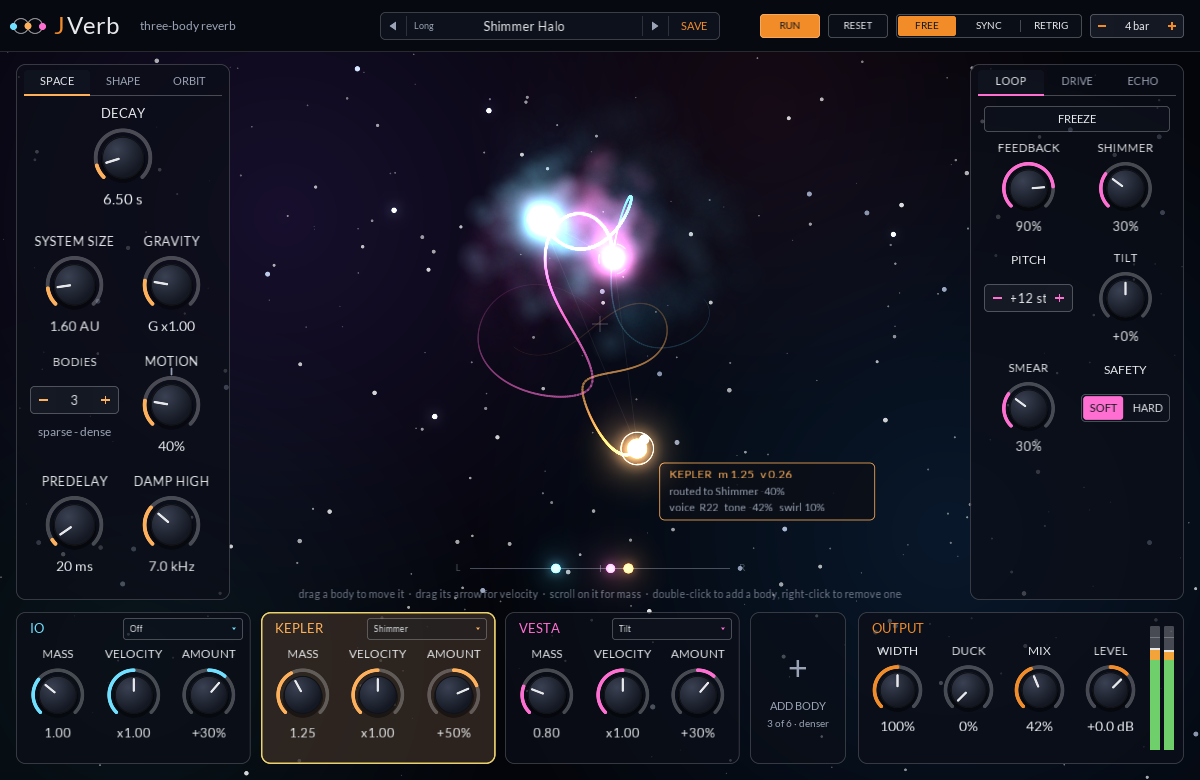
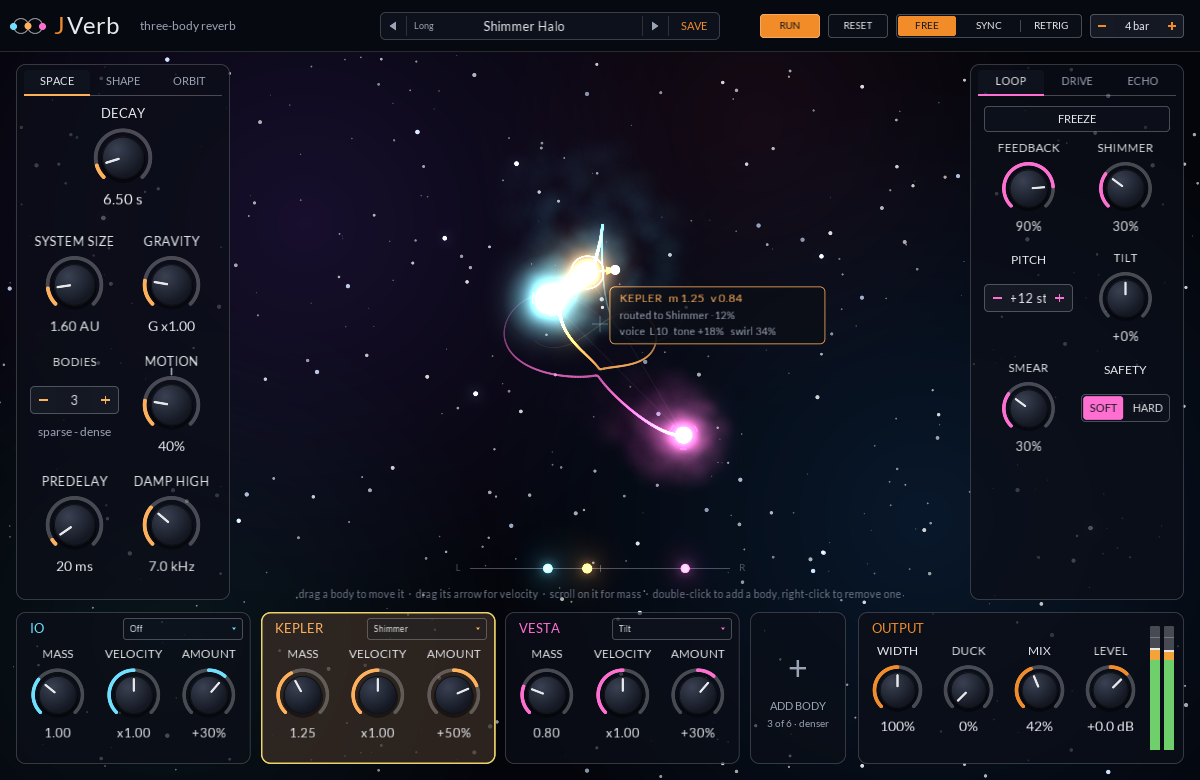
JVerb: keep the orbits' energy and give bodies a repulsive core
Bodies used to end up stuck in tight pairs after a few minutes. Running the
sim showed why: the drag past the tether took energy out on every wide
swing, and gravity turned that loss into ever harder pairs (the system lost
4-17x its starting energy over ten minutes, pairs shrank to 0.03 units).
With the drag off the energy held to within a few percent.

The sim now keeps the energy it was given (start, drags, throws, Velocity
and Mass changes), easing back to it by scaling all speeds alike; React
kicks don't set it, so they die away. The tether drag runs only while
there's excess energy. Inside 0.16 units gravity turns repulsive, so pairs
that do form (as real three-body dynamics does with 4+ bodies) circle at a
visible distance and break up again instead of merging.

Claude-Session: https://claude.ai/code/session_01CczrPusQnTGcJfkLPApwD6

Changed region(s): [[0.37, 0.1846, 0.7092, 0.6769], [0.4317, 0.7077, 0.5858, 0.7692]]

diff --git a/plugins/jverb/src/orbit.h b/plugins/jverb/src/orbit.h
@@ -1,12 +1,19 @@
 #pragma once
 
-// The orbit simulation: two to six bodies under their mutual gravity and nothing else, so the motion
-// braids, swaps partners and slingshots without ever settling. The audio thread steps it every
+// The orbit simulation: two to six bodies under their mutual gravity, so the motion braids, swaps
+// partners and slingshots without ever settling. The audio thread steps it every
 // control tick; it never allocates, and the same steps from the same start give the same orbits.
 //
 // Units: G = 1 times the Gravity param, masses are the Mass params (about 1), and the default orbits
 // span about two units. The centre of mass is kept at the origin and at rest, so the system never
 // drifts off.
+//
+// Left to plain gravity, bodies pair off: a close pass hands energy from one body to the others, the
+// pair it leaves behind sinks deeper, and with four or more bodies those pairs keep hardening until
+// they sit on top of each other for good. Two things stop that. Gravity turns repulsive inside kCore,
+// so no pair can sink much below it, and the system's energy is held at what it started with (what
+// the start, a drag, a throw or the Velocity params gave it), so neither the tether nor transient
+// kicks can drain or pump it over time.
 
 #include <algorithm>
 #include <cmath>
@@ -58,6 +65,7 @@ public:
          bodies_[i].vy *= velocity[i] * g;
       }
       recentre(mass);
+      rebase(mass, gravity);
    }
 
    int count() const { return count_; }
@@ -75,6 +83,7 @@ public:
       bodies_[count_] = {x, y, -v * y / r, v * x / r};
       ++count_;
       recentre(mass);
+      rebase(mass, gravity);
    }
    // Where a new body goes when nobody said: outside the others, on the far side of the newest one.
    void spawnPoint(double &x, double &y) const {
@@ -95,6 +104,7 @@ public:
       for (int k = i; k + 1 < count_; ++k)
          bodies_[k] = bodies_[k + 1];
       bodies_[--count_] = Body{};
+      rebased_ = false;
    }
 
    // A drag can carry a body far outside the window (the pointer keeps going), so where it's put
@@ -105,12 +115,14 @@ public:
          return;
       const double r = std::hypot(x, y), k = r > kMaxPlace ? kMaxPlace / r : 1.0;
       bodies_[i].x = x * k, bodies_[i].y = y * k;
+      rebased_ = false;
    }
    void setVelocity(int i, double vx, double vy) {
       if (i < 0 || i >= count_ || !std::isfinite(vx) || !std::isfinite(vy))
          return;
       const double v = std::hypot(vx, vy), k = v > kMaxSpeed ? kMaxSpeed / v : 1.0;
       bodies_[i].vx = vx * k, bodies_[i].vy = vy * k;
+      rebased_ = false;
    }
    void kick(int i, double dvx, double dvy) {
       if (i < count_)
@@ -119,10 +131,17 @@ public:
    void scaleVelocity(int i, double ratio) {
       if (i < count_)
          bodies_[i].vx *= ratio, bodies_[i].vy *= ratio;
+      rebased_ = false;
    }
 
    // Advances `dt` time units. Close passes take smaller steps so slingshots stay accurate.
    void step(double dt, const double *mass, double gravity) {
+      // A drag, throw, new speed or new mass sets the energy to keep; a kick doesn't, so it dies away.
+      bool massChanged = false;
+      for (int i = 0; i < count_; ++i)
+         massChanged = massChanged || mass[i] != mass_[i];
+      if (!rebased_ || massChanged)
+         rebase(mass, gravity);
       double minD2 = 1e9;
       for (int i = 0; i < count_; ++i)
          for (int j = i + 1; j < count_; ++j) {
@@ -148,6 +167,24 @@ public:
          }
       }
       recentre(mass);
+      thermostat(dt, mass, gravity);
+   }
+
+   // The total energy: motion, the softened gravity and its core, and the tether's spring.
+   double energy(const double *mass, double gravity) const {
+      double e = 0.0;
+      for (int i = 0; i < count_; ++i) {
+         const Body &b = bodies_[i];
+         e += 0.5 * mass[i] * (b.vx * b.vx + b.vy * b.vy);
+         const double out = std::max(0.0, std::hypot(b.x, b.y) - kTether);
+         e += mass[i] * 0.5 * kSpring * out * out;
+         for (int j = i + 1; j < count_; ++j) {
+            const double dx = bodies_[j].x - b.x, dy = bodies_[j].y - b.y;
+            const double r2 = dx * dx + dy * dy + kSoft * kSoft, r = std::sqrt(r2);
+            e -= gravity * mass[i] * mass[j] * (1.0 - kCore * kCore / (3.0 * r2)) / r;
+         }
+      }
+      return e;
    }
 
    // Distance from the centre of mass, and from the nearest other body.
@@ -170,8 +207,10 @@ public:
    }
 
 private:
-   // Softening keeps close passes finite; the tether pulls back bodies flung past kTether.
-   static constexpr double kSoft = 0.05, kTether = 2.4;
+   // Softening keeps close passes finite; inside kCore gravity pushes apart instead of pulling (it
+   // balances at kCore, like the size of a body), and the tether pulls back bodies flung past kTether.
+   // The energy settles back to its target over about kSettle time units (a few seconds).
+   static constexpr double kSoft = 0.05, kCore = 0.16, kTether = 2.4, kSpring = 3.0, kSettle = 4.0;
 
    void accelerations(const double *mass, double gravity) {
       for (int i = 0; i < count_; ++i) {
@@ -181,22 +220,52 @@ private:
                continue;
             const double dx = bodies_[j].x - bodies_[i].x, dy = bodies_[j].y - bodies_[i].y;
             const double r2 = dx * dx + dy * dy + kSoft * kSoft;
-            const double f = gravity * mass[j] / (r2 * std::sqrt(r2));
+            const double f = gravity * mass[j] * (1.0 - kCore * kCore / r2) / (r2 * std::sqrt(r2));
             ax += dx * f;
             ay += dy * f;
          }
          const double r = std::hypot(bodies_[i].x, bodies_[i].y);
          if (r > kTether) {
-            const double pull = 3.0 * (r - kTether) / r;
+            const double pull = kSpring * (r - kTether) / r;
             ax -= bodies_[i].x * pull;
             ay -= bodies_[i].y * pull;
-            // And a little drag out there, so an escape is caught and turned around, not bounced.
-            ax -= 0.4 * bodies_[i].vx * (r - kTether);
-            ay -= 0.4 * bodies_[i].vy * (r - kTether);
+            // And a little drag out there, so an escape is caught and turned around, not bounced, but
+            // only while there's energy to spare: drag that always ran would drain the system, and the
+            // bodies would fall into ever tighter pairs.
+            if (excess_ > 0.0) {
+               ax -= 0.4 * bodies_[i].vx * (r - kTether);
+               ay -= 0.4 * bodies_[i].vy * (r - kTether);
+            }
          }
          ax_[i] = ax;
          ay_[i] = ay;
       }
+   }
+
+   // Takes the energy now as the one to keep, per unit of gravity (a stronger gravity gives the
+   // same shapes, only faster, and so proportionally more energy).
+   void rebase(const double *mass, double gravity) {
+      for (int i = 0; i < kMax; ++i)
+         mass_[i] = i < count_ ? mass[i] : 0.0;
+      target_ = energy(mass, gravity) / std::max(0.01, gravity);
+      excess_ = 0.0;
+      rebased_ = true;
+   }
+
+   // Eases the energy back to its target by scaling every speed alike, so no path bends; the drag
+   // past the tether also catches what a kick put in.
+   void thermostat(double dt, const double *mass, double gravity) {
+      const double target = target_ * std::max(0.01, gravity);
+      const double e = energy(mass, gravity);
+      excess_ = e - target;
+      double kinetic = 0.0;
+      for (int i = 0; i < count_; ++i)
+         kinetic += 0.5 * mass[i] * (bodies_[i].vx * bodies_[i].vx + bodies_[i].vy * bodies_[i].vy);
+      if (kinetic < 1e-6)
+         return;
+      const double k = std::sqrt(std::clamp(1.0 - excess_ * std::min(1.0, dt / kSettle) / kinetic, 0.9, 1.1));
+      for (int i = 0; i < count_; ++i)
+         bodies_[i].vx *= k, bodies_[i].vy *= k;
    }
 
    void recentre(const double *mass) {
@@ -220,6 +289,8 @@ private:
 
    Body bodies_[kMax];
    double ax_[kMax] = {}, ay_[kMax] = {};
+   double mass_[kMax] = {}, target_ = 0.0, excess_ = 0.0;
+   bool rebased_ = false;
    int count_ = 3;
 };
 

diff --git a/plugins/jverb/tests/test_plugin.cpp b/plugins/jverb/tests/test_plugin.cpp
@@ -16,6 +16,7 @@
 #include <vector>
 
 #include "editor.h"
+#include "orbit.h"
 #include "params.h"
 #include "presets.h"
 
@@ -599,6 +600,28 @@ int main() {
       for (int i = 0; i < 4; ++i)
          h.process(512, silentIn, silentOut);
       JCLAP_CHECK(panel.readFrame(after) && std::hypot(after.x[0], after.y[0]) < 8.0f);
+   }
+
+   // Left running, the bodies keep their energy and stay apart: they used to bleed it away until they
+   // sat in pairs on top of each other. Five minutes at the control rate, at the default masses.
+   {
+      const double mass[kMaxBodies] = {1.0, 1.25, 0.8, 1.0, 1.0, 1.0}, speed[kMaxBodies] = {1, 1, 1, 1, 1, 1};
+      for (int count : {3, 6}) {
+         OrbitSim sim;
+         sim.reset(count, mass, speed, 1.0);
+         const double start = sim.energy(mass, 1.0), dt = 0.8 * 32 / kRate;
+         const long ticks = static_cast<long>(300 * kRate / 32), lastMinute = static_cast<long>(60 * kRate / 32);
+         double nearest = 0.0;
+         for (long t = 0; t < ticks; ++t) {
+            sim.step(dt, mass, 1.0);
+            if (t >= ticks - lastMinute)
+               for (int b = 0; b < count; ++b)
+                  nearest += sim.nearest(b) / (count * lastMinute);
+         }
+         JCLAP_CHECK(sim.finite());
+         JCLAP_CHECK(std::fabs(sim.energy(mass, 1.0) - start) < 0.02 * std::fabs(start));
+         JCLAP_CHECK(nearest > 0.6);
+      }
    }
 
    // A preset file from 0.4.x (69 params) gets its body targets translated; one from 0.5 or 0.6

diff --git a/plugins/jverb/ARCHITECTURE.md b/plugins/jverb/ARCHITECTURE.md
@@ -371,12 +371,24 @@ once a block.
 
 ## The orbit simulation
 
-[`orbit.h`](src/orbit.h) is two to six bodies under their mutual gravity and nothing else. The
-acceleration on each body is G x mass / r² toward every other body, with G the **Gravity** param and a
-softening of 0.05 so close passes stay finite. It steps with velocity Verlet, taking smaller substeps
-during close passes (up to 64 per tick) so slingshots stay accurate, and recentres the centre of mass
-at the origin and at rest after every step so the system never drifts off. A body flung past 2.4
-units is pulled back by a spring and a little drag, so an escape is caught and turned around.
+[`orbit.h`](src/orbit.h) is two to six bodies under their mutual gravity. The acceleration on each
+body is G x mass / r² toward every other body, with G the **Gravity** param and a softening of 0.05 so
+close passes stay finite. Inside 0.16 units (about the size a body is drawn) gravity turns repulsive,
+balancing at 0.16, so two bodies can circle each other closely but never sink on top of each other. It
+steps with velocity Verlet, taking smaller substeps during close passes (up to 64 per tick) so
+slingshots stay accurate, and recentres the centre of mass at the origin and at rest after every step
+so the system never drifts off. A body flung past 2.4 units is pulled back by a spring.
+
+**Keeping the energy.** Gravity on its own pairs bodies off: a close pass hands energy from one body to
+the rest, and the pair it leaves behind is bound tighter. Anything that keeps taking energy out makes
+that worse, and a drag on escaping bodies used to do just that, so after a few minutes the pairs had
+hardened into bodies stuck on top of each other (the system lost ten times its starting energy in ten
+minutes). Now the sim keeps the energy it was given: the start, a drag or throw on the panel, a
+**Velocity** or **Mass** change, or a body added or removed sets the energy to keep (per unit of
+Gravity), and after every step all speeds are scaled alike to ease back towards it over about four
+time units. A transient's kick doesn't set it, so what **React** puts in dies away over a few seconds,
+and the drag past the tether runs only while there's such energy to spare, so a kicked body is still
+caught and turned around rather than bounced.
 
 **Where they start.** Three bodies start on the figure-eight orbit, which is stable with equal masses;
 the default masses (1, 1.25, 0.8) break it up within a few laps into motion that never repeats. Any
